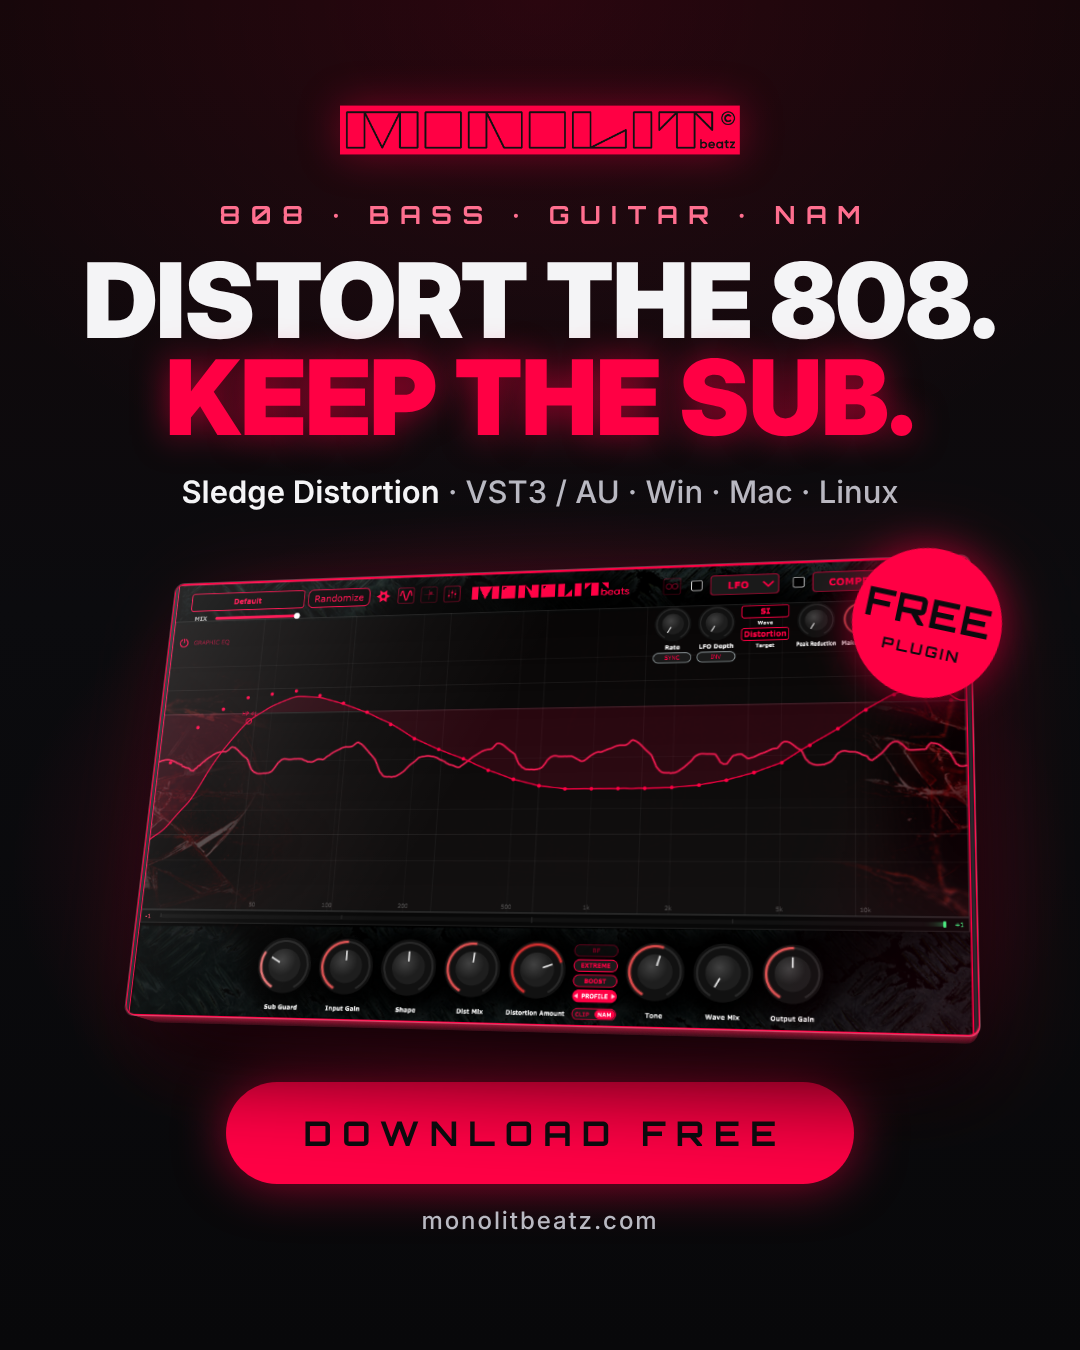
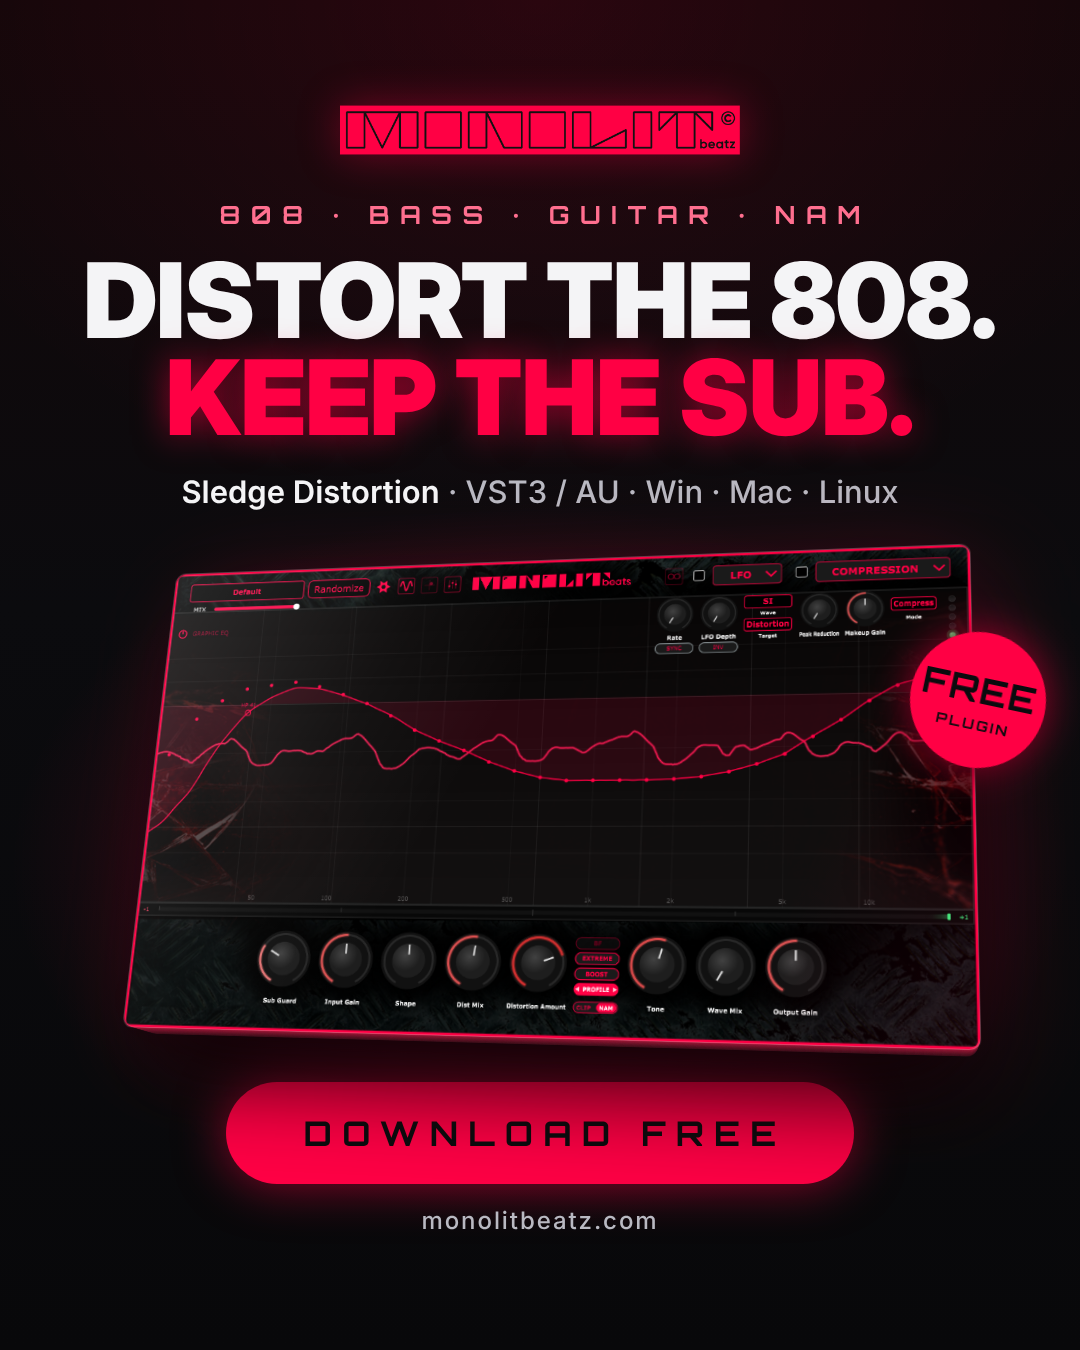
chore: fix overlaps on the launch post's plugin window
Crop the screenshot to the plugin's own frame so no host border shows as a second line, hide the old version stamp, and move the FREE sticker to the window's right edge so it covers no controls or text.

Changed region(s): [[0.1222, 0.3733, 1.0, 0.8089]]

diff --git a/marketing/launch/post.html b/marketing/launch/post.html
@@ -61,7 +61,7 @@
     filter: blur(18px);
   }
   .device {
-    position: absolute; left: 50%; top: 50%; width: 840px; aspect-ratio: 1210 / 679;
+    position: absolute; left: 50%; top: 50%; width: 840px; aspect-ratio: 1200 / 705;
     transform: translate(-50%, -50%) rotateX(16deg) rotateY(-12deg) rotateZ(3deg);
     transform-style: preserve-3d;
   }
@@ -85,14 +85,14 @@
                 transparent 42%, transparent 78%, rgba(255,0,68,.08) 100%);
   }
   .badge {
-    position: absolute; right: 8px; top: -6px; width: 150px; height: 150px;
+    position: absolute; right: -36px; top: 78px; width: 136px; height: 136px; z-index: 2;
     border-radius: 50%; background: var(--red); color: #0b0b0e;
     display: flex; flex-direction: column; align-items: center; justify-content: center;
     font-family: "Orbitron"; font-weight: 700; transform: rotate(12deg);
     box-shadow: 0 0 40px rgba(255,0,68,.6), 0 10px 30px rgba(0,0,0,.6);
   }
-  .badge .big { font-size: 40px; letter-spacing: .04em; }
-  .badge .small { font-size: 15px; letter-spacing: .18em; margin-top: 4px; }
+  .badge .big { font-size: 36px; letter-spacing: .04em; }
+  .badge .small { font-size: 14px; letter-spacing: .18em; margin-top: 4px; }
 
   .cta {
     margin-top: 58px; padding: 30px 78px; border-radius: 999px; background: var(--red);
